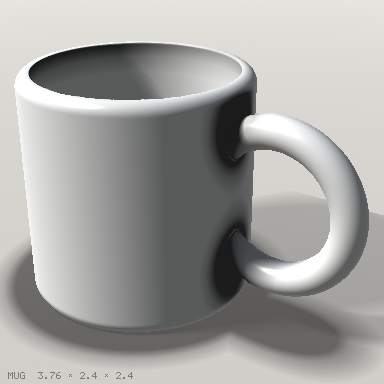
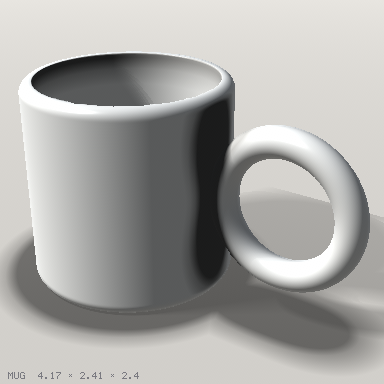
Promise a void, a bounded overlap and containment
Asked for: the mug example's handle reached through the wall into the
cup, and a frog's belly sank into its lily pad, and nothing in the
language could promise either would not happen. clearance() measures
the gap between two surfaces, negative by the depth, but it cannot say
a region holds no solid, nor how much two parts share when one is
pressed into the other, nor that a part stays inside its housing.

Three queries, in the same sampled spirit as clearance: void(region,
shape) is 1 when the region holds no solid of the shape, sampled on a
lattice over the region and along the shape's surface so a pin thinner
than the lattice is caught, with the region's own boundary excluded
(a cavity's wall is the cup's inner surface, exactly on it);
overlap(a, b) is the volume the two share, zero at a touch; inside(a,
b) is the fraction of a's volume inside b. All three are posed inside
a pose assert like the other queries.

The mug is rebuilt standing on y = 0 so its cavity step is where its
void is, its handle's inner edge now sits in the wall rather than
through it, and it promises void(cavity, mug) and that the handle is
joined to the wall by more than a touch; the README's copy of it too.

Claude-Session: https://claude.ai/code/session_01N4aZPpcvrkPPm1NLagjFQU

diff --git a/src/sdf/measure.ts b/src/sdf/measure.ts
@@ -38,6 +38,84 @@ export function regionTouches(shape: Shape3, region: Shape3, n = 12): boolean {
   return false;
 }
 
+/** The box two boxes share, or undefined when they do not meet. */
+function sharedBox(a: Shape3, b: Shape3): { min: Vec3; max: Vec3 } | undefined {
+  if (isEmpty(a.bounds) || isEmpty(b.bounds)) return undefined;
+  const min: Vec3 = [0, 0, 0], max: Vec3 = [0, 0, 0];
+  for (let k = 0; k < 3; k++) {
+    min[k] = Math.max(a.bounds.min[k], b.bounds.min[k]);
+    max[k] = Math.min(a.bounds.max[k], b.bounds.max[k]);
+    if (max[k] <= min[k]) return undefined;
+  }
+  return { min, max };
+}
+
+/**
+ * The volume the two shapes share, sampled on a lattice of `n` cells along the longest side of the box they
+ * share: zero when they only touch, the sunk-in volume when one is pressed into the other (round 8, asked for:
+ * a frog's belly blended into its pad, a mug's handle reaching into the cup). Cubic in n, so keep it to parts.
+ */
+export function overlapVolume(a: Shape3, b: Shape3, n = 24): number {
+  const box = sharedBox(a, b);
+  if (!box) return 0;
+  const size = boundsSize(box);
+  const cell = Math.max(size[0], size[1], size[2]) / n;
+  const nx = Math.max(1, Math.ceil(size[0] / cell)), ny = Math.max(1, Math.ceil(size[1] / cell)), nz = Math.max(1, Math.ceil(size[2] / cell));
+  const dx = size[0] / nx, dy = size[1] / ny, dz = size[2] / nz;
+  let count = 0;
+  for (let i = 0; i < nx; i++)
+    for (let j = 0; j < ny; j++)
+      for (let k = 0; k < nz; k++) {
+        const x = box.min[0] + (i + 0.5) * dx, y = box.min[1] + (j + 0.5) * dy, z = box.min[2] + (k + 0.5) * dz;
+        if (a.dist(x, y, z) < 0 && b.dist(x, y, z) < 0) count++;
+      }
+  return count * dx * dy * dz;
+}
+
+/**
+ * The fraction of `a`'s volume that lies inside `b`, 0 to 1, sampled over a's box: 1 for a spring that must stay
+ * in its box, 0 for a handle that must stay out of the cup.
+ */
+export function insideFraction(a: Shape3, b: Shape3, n = 24): number {
+  if (isEmpty(a.bounds)) return 0;
+  const bb = a.bounds, size = boundsSize(bb);
+  const cell = Math.max(size[0], size[1], size[2]) / n;
+  const nx = Math.max(1, Math.ceil(size[0] / cell)), ny = Math.max(1, Math.ceil(size[1] / cell)), nz = Math.max(1, Math.ceil(size[2] / cell));
+  let all = 0, within = 0;
+  for (let i = 0; i < nx; i++)
+    for (let j = 0; j < ny; j++)
+      for (let k = 0; k < nz; k++) {
+        const x = bb.min[0] + ((i + 0.5) * size[0]) / nx, y = bb.min[1] + ((j + 0.5) * size[1]) / ny, z = bb.min[2] + ((k + 0.5) * size[2]) / nz;
+        if (a.dist(x, y, z) >= 0) continue;
+        all++;
+        if (isEmpty(b.bounds) ? false : b.dist(x, y, z) < 0) within++;
+      }
+  return all ? within / all : 0;
+}
+
+/**
+ * Whether `region` holds no solid of `shape` at all: no lattice sample inside both, and no point of the shape's
+ * surface inside the region (which catches an intrusion thinner than the lattice). For `assert void(cavity, mug)`.
+ */
+export function isVoid(region: Shape3, shape: Shape3, n = 24): boolean {
+  if (isEmpty(region.bounds) || isEmpty(shape.bounds)) return true;
+  if (!sharedBox(region, shape)) return true;
+  const bb = region.bounds, size = boundsSize(bb);
+  // The region's own boundary does not count: a cavity's wall is the cup's inner surface, exactly on it.
+  const tol = Math.max(size[0], size[1], size[2], 1e-6) * 0.005;
+  for (let i = 0; i <= n; i++)
+    for (let j = 0; j <= n; j++)
+      for (let k = 0; k <= n; k++) {
+        const x = bb.min[0] + (size[0] * i) / n, y = bb.min[1] + (size[1] * j) / n, z = bb.min[2] + (size[2] * k) / n;
+        if (region.dist(x, y, z) >= -tol) continue;
+        if (shape.dist(x, y, z) < 0) return false;
+        // A sample in the void slid onto the shape's surface: solid inside the region thinner than the lattice.
+        const q = surfacePoint(shape, x, y, z);
+        if (Math.abs(shape.dist(q[0], q[1], q[2])) <= tol && region.dist(q[0], q[1], q[2]) < -tol) return false;
+      }
+  return true;
+}
+
 export function clearance(a: Shape3, b: Shape3, n = 12): number {
   if (isEmpty(a.bounds) || isEmpty(b.bounds)) return Infinity;
   let best = Infinity;

diff --git a/src/lang/builtins.ts b/src/lang/builtins.ts
@@ -15,7 +15,7 @@ import * as S from "../sdf/shapes2d.js";
 import * as W from "../sdf/sweeps.js";
 import { bezierCurve, curveThrough, sweepCurve, tubeCurve, type Curve } from "../sdf/curves.js";
 import { textProfile, textWidth } from "../sdf/font.js";
-import { clearance } from "../sdf/measure.js";
+import { clearance, insideFraction, isVoid, overlapVolume } from "../sdf/measure.js";
 import { countPieces } from "../mesh/pieces.js";
 import type { Material, PatternKind, Placement, Shape2, Shape3 } from "../sdf/types.js";
 import { isMaterial, isShape2, isShape3, type Builtin, type Overload, type Param, type Value } from "./values.js";
@@ -294,6 +294,12 @@ export const BUILTINS: Builtin[] = [
   def("tall", "Queries", "The size of a shape's bounds along y.", ov([shape()], "number", (a) => s3(a[0]).bounds.max[1] - s3(a[0]).bounds.min[1])),
   def("pieces", "Queries", "How many separate pieces the shape meshes into at `resolution` cells on its longest side, the program's `set grid` when none is given (64 without one): the report's Pieces row at that grid (cavities and specks left out). For assert pieces(model) == 1. Meshes the shape, so it costs a moment; a whole scene wants the report instead.",
     ov([shape(), num("resolution", "cells on the longest side", 64)], "number", (a) => countPieces(s3(a[0]), n(a[1])))),
+  def("void", "Queries", "1 when `region` holds no solid of `shape` at all, else 0: the cavity of a cup with nothing poking into it (assert void(cavity, mug)), a hole that goes through, a slot a lid must not fill. Sampled on a lattice over the region's box and along the shape's surface, so an intrusion thinner than the lattice is still caught.",
+    ov([shape("region"), shape()], "number", (a) => (isVoid(s3(a[0]), s3(a[1])) ? 1 : 0))),
+  def("overlap", "Queries", "The volume two shapes share, in cubic units: zero when they only touch, the sunk-in volume when one is pressed into the other (a frog blended into its pad, a handle reaching into a cup). For assert overlap(frog, pad) < 0.001. Sampled at 24 cells along the shared box's longest side, so measure parts, not a scene.",
+    ov([shape("a"), shape("b")], "number", (a) => overlapVolume(s3(a[0]), s3(a[1])))),
+  def("inside", "Queries", "The fraction of `a`'s volume that lies inside `b`, 0 to 1: assert inside(spring, box) == 1 for a part that must stay in its housing, assert inside(handle, cavity) == 0 for one that must stay out. Sampled at 24 cells along a's longest side.",
+    ov([shape("a"), shape("b")], "number", (a) => insideFraction(s3(a[0]), s3(a[1])))),
   def("clearance", "Queries", "The smallest gap between two shapes' surfaces: negative by how deep they overlap, zero when they touch. For assert clearance(handle, rim) > 0.05. Sampled from the fields (12 points per side of each shape's box, then tightened), so measure parts rather than a whole scene.",
     ov([shape("a"), shape("b")], "number", (a) => clearance(s3(a[0]), s3(a[1])))),
 

diff --git a/tests/sdf.test.ts b/tests/sdf.test.ts
@@ -442,6 +442,29 @@ describe("clearance", () => {
   });
 });
 
+describe("void, overlap and inside", () => {
+  it("find solid in a region, the shared volume of two parts, and how much of one lies in another", () => {
+    const cup = O.difference(P.cylinder(1, 2), O.move(P.cylinder(0.85, 2), 0, 0.2, 0));
+    const cavity = O.move(P.cylinder(0.85, 2), 0, 0.2, 0);
+    // The cup's wall holds nothing in the cavity; a handle reaching to x = 0.5 does.
+    expect(C_.isVoid(cavity, cup)).toBe(true);
+    const intruder = O.move(P.box(0.6, 0.2, 0.2), 0.8, 0.5, 0);
+    expect(C_.isVoid(cavity, O.union([cup, intruder]))).toBe(false);
+    // A thin pin through the void, thinner than the lattice, is still caught through the surface.
+    const pin = O.move(P.box(2, 0.01, 0.01), 0, 0.5, 0);
+    expect(C_.isVoid(cavity, O.union([cup, pin]))).toBe(false);
+    expect(C_.isVoid(P.empty(), cup)).toBe(true);
+    // Two unit boxes overlapping by half share half a unit of volume; touching, none.
+    expect(C_.overlapVolume(P.box(1, 1, 1), O.move(P.box(1, 1, 1), 0.5, 0, 0))).toBeCloseTo(0.5, 2);
+    expect(C_.overlapVolume(P.box(1, 1, 1), O.move(P.box(1, 1, 1), 1, 0, 0))).toBe(0);
+    expect(C_.overlapVolume(P.box(1, 1, 1), O.move(P.box(1, 1, 1), 3, 0, 0))).toBe(0);
+    // A small box wholly inside a big one is all inside; half out is half.
+    expect(C_.insideFraction(P.box(0.5, 0.5, 0.5), P.box(2, 2, 2))).toBe(1);
+    expect(C_.insideFraction(P.box(1, 1, 1), O.move(P.box(1, 1, 1), 0.5, 0, 0))).toBeCloseTo(0.5, 2);
+    expect(C_.insideFraction(P.box(1, 1, 1), O.move(P.box(1, 1, 1), 5, 0, 0))).toBe(0);
+  });
+});
+
 describe("curves", () => {
   it("measures the tightest bend and notes a tube thicker than it", () => {
     expect(C.minBendRadius(C.bezierCurve([[0, 0, 0], [1, 0, 0], [3, 0, 0], [4, 0, 0]]))).toBe(Infinity);

diff --git a/tests/lang.test.ts b/tests/lang.test.ts
@@ -240,6 +240,10 @@ describe("interpreter", () => {
     expect(run(`set grid 24\n${bridge}n = pieces(m, resolution=64)\nshow m`).steps.find((s) => s.name === "n")?.value).toBe(1);
     expect(() => run('s = sphere(1)\np = at(s, "tp")')).toThrow(/^line 2: at\(\): no anchor "tp"/);
   });
+  it("promises a void, a bounded overlap and containment", () => {
+    const ev = run('cup = cylinder(1, 2) - (cylinder(0.85, 2) | move(0, 0.2, 0))\ncavity = cylinder(0.85, 2) | move(0, 0.2, 0)\nhandle = torus(0.6, 0.15) | rotate(x=90) | move(1.2, 1, 0)\nmug = cup + handle\nassert void(cavity, mug), "nothing pokes in"\nassert overlap(handle, cup) > 0\nassert inside(handle, cavity) < 0.5\nshow mug');
+    expect(ev.asserts.map((a) => [a.passed, a.detail])).toEqual([[false, undefined], [true, expect.stringMatching(/^0\.\d+ > 0$/)], [true, expect.stringMatching(/^0\.\d+ < 0\.5$/)]]);
+  });
   it("judges an assert that names a pose only in that pose's evaluation", () => {
     const src = 'lid = joint(box(1, 0.2, 1) | move(0, 1.1, 0), "hinge", 0, 1, 0.5)\npose("open", hinge=[-90, 0, 0])\nassert tall(lid) < 0.5, "lies flat", pose=open\nassert tall(lid) < 0.5, "at rest"\nassert tall(lid) < 0.5, pose=rest';
     const rest = run(src);

diff --git a/src/lang/interpreter.ts b/src/lang/interpreter.ts
@@ -139,7 +139,7 @@ export function assertLine(a: AssertResult): string {
 }
 
 /** The builtins that measure a shape, so in a pose they read a nested step where the pose put it. */
-const POSED_QUERIES = new Set(["height", "top", "bottom", "width", "depth", "tall", "clearance", "at", "surface", "pieces"]);
+const POSED_QUERIES = new Set(["height", "top", "bottom", "width", "depth", "tall", "clearance", "void", "overlap", "inside", "at", "surface", "pieces"]);
 
 /** One line for a passing assert with the numbers it saw, for `check`. */
 export function assertPassLine(a: AssertResult): string {

diff --git a/docs/language.md b/docs/language.md
@@ -784,8 +784,22 @@ of each shape's box and then tightened, so it is exact for parts that
 face each other and can miss a feature narrower than a twelfth of the
 part. Measure parts rather than the whole model: `clearance(handle,
 body)`, not `clearance(handle, model)` (the handle is in the model, so
-that is zero). The bound queries (`width`, `tall`, `depth`, `top`,
-`bottom`, `height`) and the anchors (`at`) are the rest.
+that is zero). `void(region, shape)` is 1 when the region holds no
+solid of the shape: `assert void(cavity, mug)` promises nothing pokes
+into the cup (the mug example's handle once reached inside it), and
+the same form promises a hole goes through or a slot stays open, with
+the region the shape you subtracted or a box you name for it.
+`overlap(a, b)` is the volume two parts share, zero when they only
+touch: `assert overlap(frog, pad) < 0.001` keeps a frog on its pad
+rather than sunk into it, and `assert overlap(handle, body) > 0.001`
+says a handle is joined to its wall, not just touching. `inside(a,
+b)` is the fraction of a's volume inside b: `== 1` for a spring that
+must stay in its housing, `== 0` for a handle that must stay out of the
+cavity. All three sample a lattice (24 cells along the longest side,
+and `void` walks the surface too, so a pin thinner than the lattice is
+caught), so measure parts, not a scene. The bound queries (`width`,
+`tall`, `depth`, `top`, `bottom`, `height`) and the anchors (`at`) are
+the rest.
 
 ## Limits worth knowing
 

diff --git a/.claude/skills/aixle/SKILL.md b/.claude/skills/aixle/SKILL.md
@@ -52,6 +52,8 @@ Reference: `docs/reference.md` (every function, generated from the code),
    render anything.
 5. **Promise it with `assert`** once a thing is right: `assert
    pieces(model) == 1`, `assert clearance(handle, rim) > 0.05`, `assert
+   void(cavity, mug)` (nothing pokes into the cup), `assert overlap(frog,
+   pad) < 0.001` (on the pad, not sunk in), `assert
    tall(model) < 2.2`. `check` then fails, with the numbers, when a later
    edit breaks it.
 6. **Compare with the plan.** Fix, back to 3. Done when the sheet matches
@@ -97,7 +99,7 @@ import("part.obj", size=2)                                                      
 scene a, b, c   place(shape, [x,y,z,yaw, ...])   joint(part, "elbow", x, y, z)          # assemblies
 pose("reach", elbow=[0, 0, 40], hand=xform(move=[0, 0.2, 0], scale=1.1))   animation("wave", ["rest", "reach", "rest"], seconds=2, ease=1)
 height(s, x, z)  top(s)  bottom(s)  width(s)  depth(s)  tall(s)  angle("elbow")           # read sizes and the pose to place parts
-pieces(s)  clearance(a, b)   a < b  a == b  a != b                                        # measure for assert (1 or 0)
+pieces(s)  clearance(a, b)  void(region, s)  overlap(a, b)  inside(a, b)   a < b  a == b     # measure for assert (1 or 0)
 set grid 200   set size 768   set focus lid   set pose reach   set azimuth 60             # settings (CLI flags override)
 set light_azimuth -40   set light_elevation 55   set ambient 1.5   material("#fc6", glow=1)  # beauty lighting
 

diff --git a/docs/reference.md b/docs/reference.md
@@ -447,6 +447,24 @@ How many separate pieces the shape meshes into at `resolution` cells on its long
 
 - `resolution`: cells on the longest side
 
+### void
+
+1 when `region` holds no solid of `shape` at all, else 0: the cavity of a cup with nothing poking into it (assert void(cavity, mug)), a hole that goes through, a slot a lid must not fill. Sampled on a lattice over the region's box and along the shape's surface, so an intrusion thinner than the lattice is still caught.
+
+    void(region, shape) -> number
+
+### overlap
+
+The volume two shapes share, in cubic units: zero when they only touch, the sunk-in volume when one is pressed into the other (a frog blended into its pad, a handle reaching into a cup). For assert overlap(frog, pad) < 0.001. Sampled at 24 cells along the shared box's longest side, so measure parts, not a scene.
+
+    overlap(a, b) -> number
+
+### inside
+
+The fraction of `a`'s volume that lies inside `b`, 0 to 1: assert inside(spring, box) == 1 for a part that must stay in its housing, assert inside(handle, cavity) == 0 for one that must stay out. Sampled at 24 cells along a's longest side.
+
+    inside(a, b) -> number
+
 ### clearance
 
 The smallest gap between two shapes' surfaces: negative by how deep they overlap, zero when they touch. For assert clearance(handle, rim) > 0.05. Sampled from the fields (12 points per side of each shape's box, then tightened), so measure parts rather than a whole scene.

diff --git a/README.md b/README.md
@@ -11,12 +11,15 @@ one thumbnail per build step, a turntable) and into meshes it can ship
 ```
 # A coffee mug: a rounded cup, hollowed and opened at the top, a torus handle.
 r = 1.2
-body = cylinder(r=r, h=2.4, round=0.12)
-cavity = cylinder(r - 0.14, 2.4) | move(0, 0.2, 0)
+body = cylinder(r=r, h=2.4, round=0.12) | move(0, 1.2, 0)
+cavity = cylinder(r - 0.14, 2.4) | move(0, 1.4, 0)
 cup = body - cavity
-handle = torus(0.75, 0.16) | rotate(x=90) | move(r + 0.45, 0.1, 0)
-mug = (cup + handle) | paint("porcelain") | ground()
+handle = torus(0.75, 0.16) | rotate(x=90) | move(r - 0.05 + 0.75 + 0.16, 1.3, 0)
+mug = (cup + handle) | paint("porcelain")
 show mug
+
+assert void(cavity, mug), "nothing pokes into the cup"
+assert overlap(handle, body) > 0.001, "the handle is joined to the wall"
 ```
 
 ```

diff --git a/docs/agent-guide.md b/docs/agent-guide.md
@@ -30,7 +30,10 @@ the inside is cut open.
    `report.md` for the numbers (does it stand, is it one piece).
 5. **Say what the model promises**, with `assert`: one piece, a gap
    that must stay open, a size that must hold (`assert pieces(model) ==
-   1`, `assert clearance(handle, rim) > 0.05`), and for a rig a promise
+   1`, `assert clearance(handle, rim) > 0.05`), a void that must stay
+   empty and parts that must not sink into each other (`assert
+   void(cavity, mug)`, `assert overlap(frog, pad) < 0.001`, `assert
+   inside(spring, box) == 1`), and for a rig a promise
    about a pose (`assert abs(at(dog, "sole_fl")[1]) < 0.01, pose=walk_a`:
    in a pose assert a step is measured where the pose puts it). `check`
    fails when one is broken and says by how much, prints every passing
